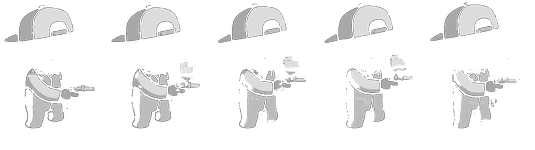
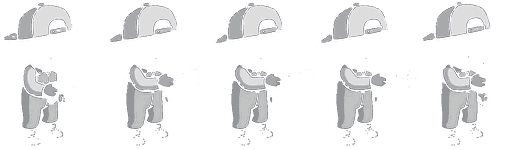
fix(art): mechanic overalls no longer see-through or patchy
The first animations had their gray clothes eaten by background removal (gray matte); they
were regenerated on a magenta matte. split_worker.py now refuses frames with see-through holes
inside the figure, and the tinted overalls layer includes the shading on the legs.

Claude-Session: https://claude.ai/code/session_01TYep6my4PBxgSJHqj9FDLV

diff --git a/apps/client/src/scenes/GarageScene.ts b/apps/client/src/scenes/GarageScene.ts
@@ -20,7 +20,7 @@ const CAR_TEXTURE_SCALE = 0.5;
 const IN_FLIGHT_ALPHA = 0.01;
 const VIP_GOLD = 0xe9b949;
 /** Mechanic animation strips (art/src/workers): frames per strip; each has a gray `_cloth` layer to tint. */
-const WORKER_FRAMES: Record<WorkerAction, number> = { scrub: 5, wrench: 4, spray: 5 };
+const WORKER_FRAMES: Record<WorkerAction, number> = { scrub: 3, wrench: 2, spray: 5 };
 const WORKER_FPS = 8;
 /** Where the mechanic stands, relative to the centre of the car's pad (on the car's left, facing it). */
 const WORKER_OFFSET = { x: -58, y: 10 };

diff --git a/tools/split_worker.py b/tools/split_worker.py
@@ -10,7 +10,7 @@ cropped to the union of the kept frames and scaled to TARGET_H px tall (2x art, 
 
 import sys
 
-from PIL import Image, ImageChops, ImageFilter
+from PIL import Image, ImageChops, ImageDraw, ImageFilter
 
 TARGET_H = 150
 
@@ -20,7 +20,21 @@ def is_cloth(r: int, g: int, b: int, a: int) -> bool:
         return False
     # light neutral grays only (tiny spread between channels): keeps the dark outline, skin, hair,
     # the yellow sponge and the coloured effects out
-    return max(r, g, b) - min(r, g, b) < 12 and (r + g + b) / 3 > 150 and b >= r - 3
+    # overalls run from ~140 (shadow) up to white; boots and gloves stay at or below ~130
+    return max(r, g, b) - min(r, g, b) < 12 and (r + g + b) / 3 > 135 and b >= r - 3
+
+
+MAX_HOLE_SHARE = 0.005
+
+
+def hole_share(frame: Image.Image) -> float:
+    """Share of the figure that is see-through but enclosed by it (background removal eating the clothes)."""
+    solid = frame.getchannel("A").point(lambda a: 255 if a > 40 else 0)
+    padded = Image.new("L", (solid.width + 2, solid.height + 2), 0)
+    padded.paste(solid, (1, 1))
+    ImageDraw.floodfill(padded, (0, 0), 128)  # everything see-through that reaches the border
+    hist = padded.histogram()
+    return hist[0] / max(1, hist[255])
 
 
 def main() -> None:
@@ -31,6 +45,10 @@ def main() -> None:
     keep = [int(i) for i in frames_arg.split(",")]
     assert all(0 <= i < n for i in keep), f"sheet has {n} frames"
     frames = [sheet.crop((i * fh, 0, (i + 1) * fh, fh)) for i in keep]
+    for i, f in zip(keep, frames):
+        share = hole_share(f)
+        if share > MAX_HOLE_SHARE:
+            sys.exit(f"{name}: frame {i} has see-through holes inside the figure ({share:.1%}); regenerate it")
 
     boxes = [f.getbbox() for f in frames]
     box = (
